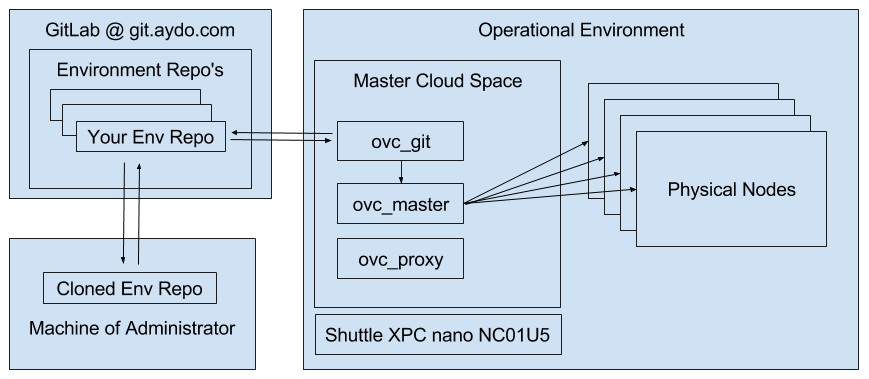
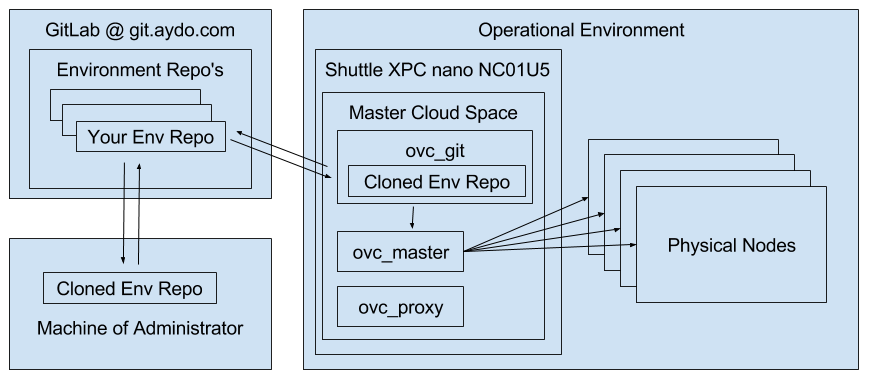
Updating admin architecture picture and some minor updates to the actual documentation about connecting over ssh

diff --git a/Sysadmin/connect.md b/Sysadmin/connect.md
@@ -5,9 +5,9 @@
 ![](AdminArchitecture.png)
 
 The core of an OpenvCloud environment is the **master cloud space**, which consist of the following docker containers:
-- ovc_git - holding all configuration of your environment
-- ovc_master - controlling the environment based on information from ovc_git
-- ovc_proxy - runs nginx as a proxy for all port 80 and port 443 communications
+- **ovc_git** holding all configuration of your environment
+- **ovc_master** controlling the environment based on information from ovc_git
+- **ovc_proxy** running nginx as a proxy for all port 80 and port 443 communications
 
 The master cloud space and its containers can run locally, close to the actual OpenvCloud physical nodes it controls or remotely, for instance in another OpenvCloud environment, such as at mothership1.com.
 
@@ -19,8 +19,8 @@ On the ovc_git docker container of your environment this git repository is clone
 
 So in order to access you OpenvCloud environment you have two options, get direct or indirect access to the git repository:
 
-- Direct access requires that you know the credentials for opening an SSH connection to ovc_git
-- Indirect access (recommended) requires that have the AYDO credentials in order to first clone the git repository of your local machine, in order get to the the keys to access ovc_git and all other docker containers, and update the configuration, which you will be pushing back to the central repository at AYDO, from where they get in turn pulled to ovc_git.
+- **Direct access** requires that you know the credentials for opening an SSH connection to ovc_git
+- **Indirect access** (recommended) requires that have the AYDO credentials in order to first clone the git repository of your local machine, providing you  the keys to access ovc_git and all other docker containers in the master cloud space, and update the configuration, which you will be pushing back to the central repository at AYDO, from where it gets in turn pulled to ovc_git, making your changes effective.
 
 
 ## Accessing ovc_git indirectly
